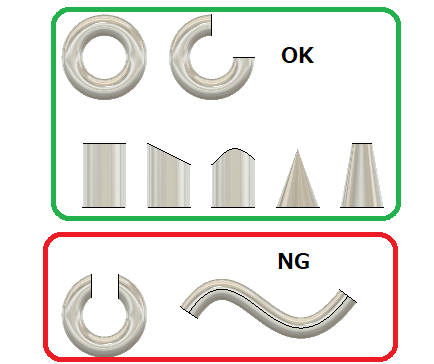
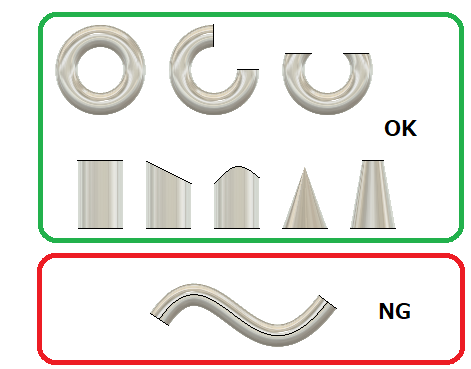
Change Torus Algorithm

diff --git a/GOKOTAI/commands/CenterlineMeasurement/CenterlineMeasurementFactry.py b/GOKOTAI/commands/CenterlineMeasurement/CenterlineMeasurementFactry.py
@@ -69,6 +69,44 @@ def drawArc(
         self.endPoint
     )
 
+def getCenters(
+    face: adsk.fusion.BRepFace):
+
+    outerEdges = [l.edges for l in face.loops if l.isOuter]
+    edges = []
+    for es in outerEdges:
+        for e in es:
+            edges.append(e)
+
+    surfEva: adsk.core.SurfaceEvaluator = face.evaluator
+    prms = []
+    edge: adsk.fusion.BRepEdge = None
+    for edge in edges:
+        edgeEva: adsk.core.CurveEvaluator3D = edge.evaluator
+        _, sPrm, ePrm = edgeEva.getParameterExtents()
+        _, points = edgeEva.getStrokes(
+            sPrm,
+            ePrm,
+            0.00001
+        )
+
+        _, surfPrms = surfEva.getParametersAtPoints(points)
+
+        if surfPrms[0].y > 0:
+            prms.append(min(surfPrms, key=lambda p: p.y))
+        else:
+            prms.append(max(surfPrms, key=lambda p: p.y))
+
+    centers = []
+    for prm in prms:
+        _, pnt = surfEva.getPointAtParameter(prm)
+        _, normal = surfEva.getNormalAtParameter(prm)
+        _, _, maxCurvature, _ = surfEva.getCurvature(prm)
+        normal.scaleBy(1 / maxCurvature)
+        pnt.translateBy(normal)
+        centers.append(pnt)
+
+    return centers
 
 def getCenterCurveByTorus(
     self,
@@ -80,7 +118,9 @@ def getCenterCurveByTorus(
     radius = torus.majorRadius
 
     # circle
-    if face.edges.count < 1:
+    outerEdges = [l.edges for l in face.loops if l.isOuter]
+    # if face.edges.count < 1:
+    if len(outerEdges) < 1:
         circle: adsk.core.Circle3D = adsk.core.Circle3D.createByCenter(
             center,
             normal,
@@ -91,58 +131,48 @@ def getCenterCurveByTorus(
             'length': math.pi * 2 * radius,
         }
 
-    pnts = [e.geometry.center for e in face.edges 
-        if e.geometry.classType() == adsk.core.Circle3D.classType()]
-
-    if len(pnts) < 2:
-        return None
-
     # arc
     cog: adsk.core.Point3D = face.centroid
     vecCog: adsk.core.Vector3D = center.vectorTo(cog)
-    lst = []
-    for p1, p2 in itertools.combinations(pnts, 2):
-        v1: adsk.core.Vector3D = center.vectorTo(p1)
-        v2: adsk.core.Vector3D = center.vectorTo(p2)
 
-        ang = v1.angleTo(v2)
-        if not vecCog.dotProduct(v1) > 0:
-            ang = math.pi * 2 - ang
+    centers = getCenters(face)
+    p1: adsk.core.Point3D = centers[0]
+    p2: adsk.core.Point3D = centers[1]
 
-        arc: adsk.core.Arc3D = adsk.core.Arc3D.createByCenter(
-            adsk.core.Point3D.create(0,0,0),
-            adsk.core.Vector3D.create(0,0,1),
-            adsk.core.Vector3D.create(1,0,0),
-            radius,
-            0,
-            ang
-        )
+    v1: adsk.core.Vector3D = center.vectorTo(p1)
+    v2: adsk.core.Vector3D = center.vectorTo(p2)
 
-        mat: adsk.core.Matrix3D = adsk.core.Matrix3D.create()
-        xVec: adsk.core.Vector3D = center.vectorTo(p1)
-        xVec.normalize()
-        yVec: adsk.core.Vector3D = xVec.crossProduct(normal)
-        yVec.normalize()
-        mat.setWithCoordinateSystem(
-            center,
-            xVec,
-            yVec,
-            normal
-        )
+    ang = v1.angleTo(v2)
+    if not vecCog.dotProduct(v1) > 0:
+        ang = math.pi * 2 - ang
 
-        arc.transformBy(mat)
+    arc: adsk.core.Arc3D = adsk.core.Arc3D.createByCenter(
+        adsk.core.Point3D.create(0,0,0),
+        adsk.core.Vector3D.create(0,0,1),
+        adsk.core.Vector3D.create(1,0,0),
+        radius,
+        0,
+        ang
+    )
 
-        lst.append(
-            {
-                'obj': arc,
-                'length': ang * radius,
-            }
-        )
+    mat: adsk.core.Matrix3D = adsk.core.Matrix3D.create()
+    xVec: adsk.core.Vector3D = center.vectorTo(p1)
+    xVec.normalize()
+    yVec: adsk.core.Vector3D = xVec.crossProduct(normal)
+    yVec.normalize()
+    mat.setWithCoordinateSystem(
+        center,
+        xVec,
+        yVec,
+        normal
+    )
 
-    if len(lst) < 1:
-        return None
+    arc.transformBy(mat)
 
-    return max(lst, key=lambda x: x['length'])
+    return {
+        'obj': arc,
+        'length': ang * radius,
+    }
 
 
 def getPerpendicularVecter(
@@ -286,10 +316,12 @@ class CenterlineMeasurementFactry:
         root: adsk.fusion.Component = des.rootComponent
 
         cgGroup: adsk.fusion.CustomGraphicsGroup = root.customGraphicsGroups.add()
+        lineStyle: adsk.fusion.LineStylePatterns = adsk.fusion.LineStylePatterns.centerLineStylePattern
         for crv in crvs:
             cgCrv: adsk.fusion.CustomGraphicsCurve = cgGroup.addCurve(crv)
             cgCrv.weight = 3
             cgCrv.color = CG_COLOR
+            cgCrv.lineStylePattern = lineStyle
 
         return cgGroup
 

diff --git a/GOKOTAI/commands/CenterlineMeasurement/README.md b/GOKOTAI/commands/CenterlineMeasurement/README.md
@@ -16,7 +16,6 @@
 
 - 面：該当の面を選択してください。
   - 選択可能な面の形状は、"シリンダー" "コーン" "トーラス" のみです。
-  - "トーラス"の両端面のエッジが"円"になっている必要があります。
   ![Alt text](./resources_readme/surface.png)
 
 
@@ -37,13 +36,6 @@
 "結果をスケッチで作成”にチェックを入れ"OK"を押した場合、プレビュー時の中心線を、スケッチの線としてルートコンポーネントに作成します。
 
 ![Alt text](./resources_readme/res.png)
-
-
----
-
-## **注意** :
-
-- 天面が尖っている円錐形状は選択出来ますが、合計長さに含まれません。
 
 ---
 

diff --git a/CHANGELOG.md b/CHANGELOG.md
@@ -1,5 +1,10 @@
 # Change of Fusion360 GOKOTAI
 
+
+## 0.0.13
++ 殆どのトーラス形状対応("中心線長さ")
+  + 境界の外周ループが1個の場合は未対応
+
 ## 0.0.12
 + 全てのシリンダー・コーン形状対応("中心線長さ")
 
